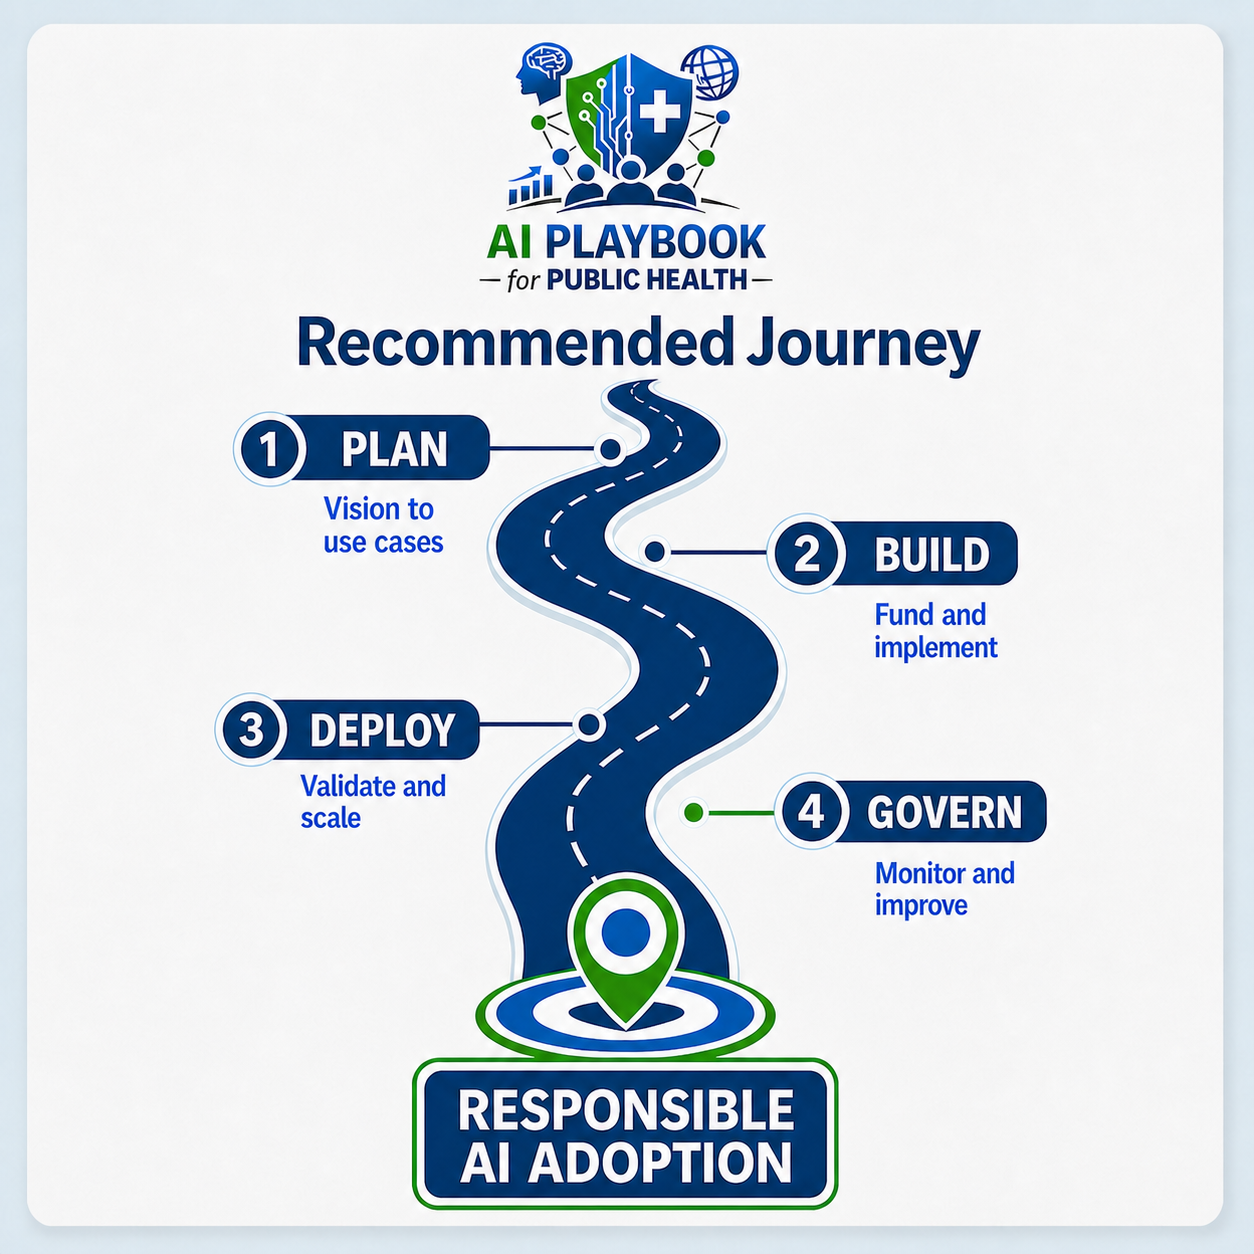
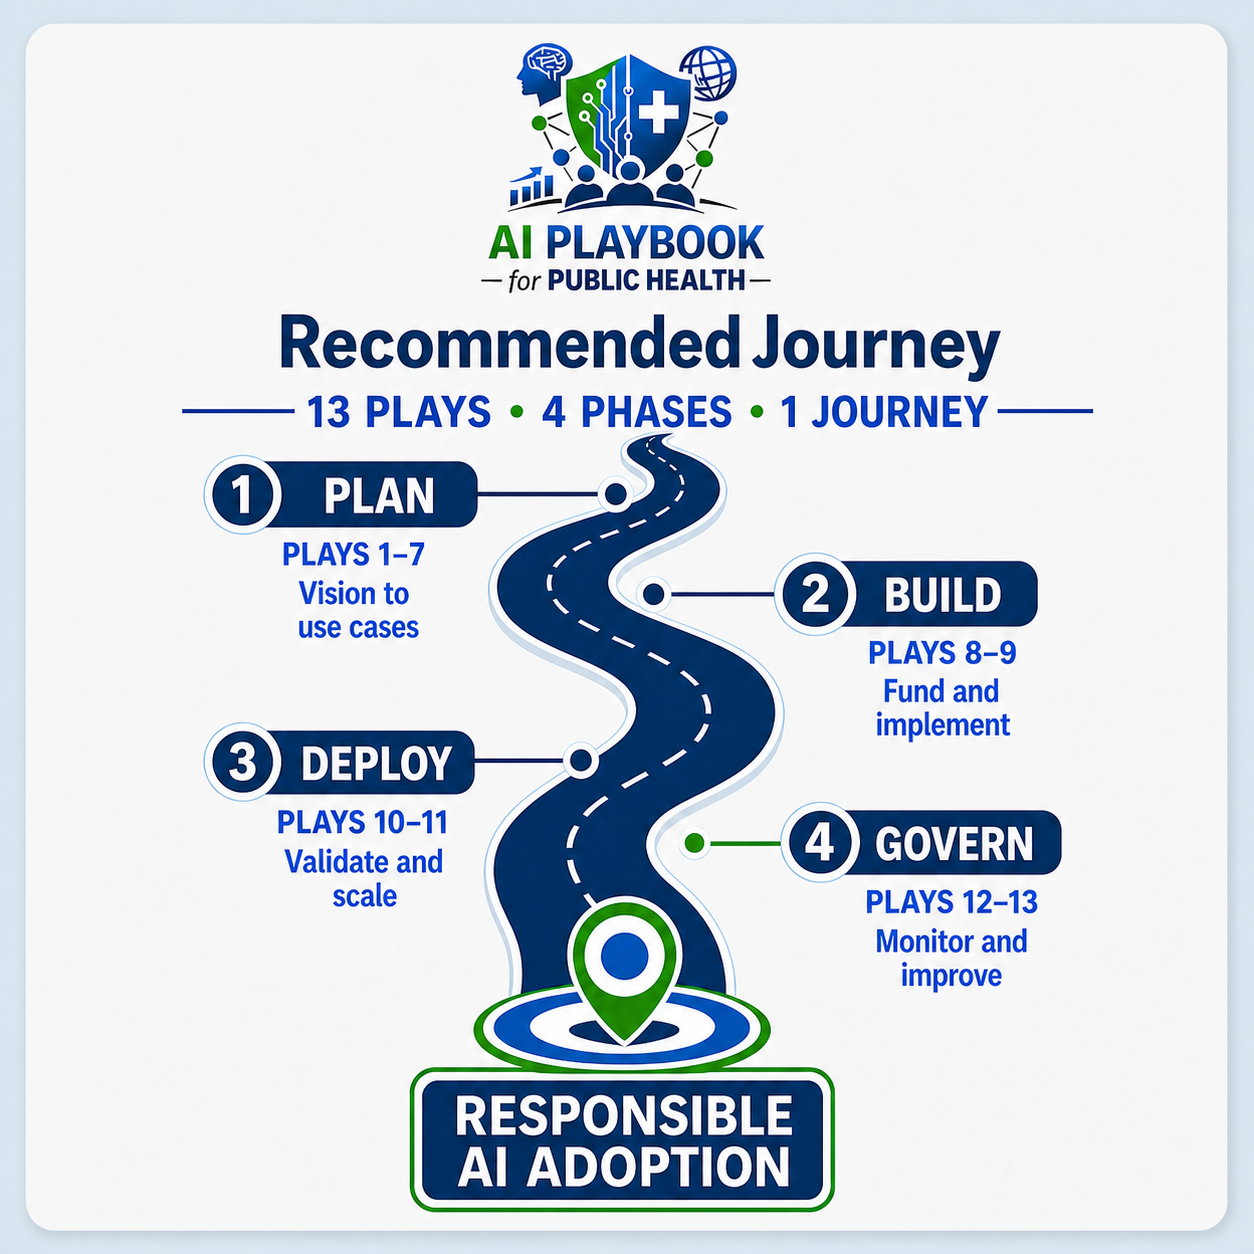
Show 13 plays across four journey phases

Changed region(s): [[0.0311, 0.0311, 0.9641, 0.9952], [0.9641, 0.0622, 0.9952, 0.9641]]

diff --git a/mvp/index.html b/mvp/index.html
@@ -1,6 +1,6 @@
 <!doctype html><html lang="en"><head><meta charset="utf-8"><meta name="viewport" content="width=device-width,initial-scale=1"><meta name="description" content="A public MVP for responsible AI strategy and implementation in public health departments."><title>AI Playbook for Public Health Departments</title><link rel="stylesheet" href="styles.css"><link rel="stylesheet" href="page.css"><link rel="stylesheet" href="evidence.css"><link rel="stylesheet" href="extras.css"><link rel="stylesheet" href="canonical-visuals.css"></head><body>
 <a class="skip" href="#main">Skip to content</a><header><a class="brand" href="#top"><img src="../assets/ai-playbook-logo-public-health.png" alt=""><span><strong>Public Health AI Strategy &amp; Implementation Playbook</strong><small>for Public Health Departments</small></span></a><button class="menu" aria-controls="primary-nav" aria-expanded="false">Menu</button><nav id="primary-nav" aria-label="Primary navigation"><a href="#plays">The 13 Plays</a><a href="learning.html">Core Learning</a><a href="training-paths.html">Training Paths</a><a href="resources.html">Evidence &amp; Resources</a><a href="reviewer.html">Become a Reviewer</a><a href="feedback.html">Feedback</a><a href="about.html">About this MVP</a><a class="outline" href="https://phisolutions.us" target="_blank" rel="noopener">Consulting</a></nav></header>
-<main id="main"><section class="hero" id="top"><div><p class="eyebrow">Responsible AI adoption for public health</p><h1>Move from AI interest to responsible action.</h1><p class="lede">Thirteen practical plays help public health departments align leadership, prepare their workforce, establish governance, select valuable use cases, and implement AI with public trust at the center.</p><div class="actions"><a class="button primary" href="#plays">Explore the 13 Plays</a><a class="button secondary" href="#updates">Get release updates</a></div><p class="note"><b>Public MVP:</b> all 13 plays and one bounded Starter Tool per play. The complete organizational toolkit and protected methods are not included.</p><p class="release-status" id="release-status">Public MVP</p></div><figure class="journey-graphic-card"><img src="../assets/recommended-journey-final.png" alt="Recommended Journey: Plan—vision to use cases; Build—fund and implement; Deploy—validate and scale; Govern—monitor and improve; destination—Responsible AI Adoption."></figure></section>
+<main id="main"><section class="hero" id="top"><div><p class="eyebrow">Responsible AI adoption for public health</p><h1>Move from AI interest to responsible action.</h1><p class="lede">Thirteen practical plays help public health departments align leadership, prepare their workforce, establish governance, select valuable use cases, and implement AI with public trust at the center.</p><div class="actions"><a class="button primary" href="#plays">Explore the 13 Plays</a><a class="button secondary" href="#updates">Get release updates</a></div><p class="note"><b>Public MVP:</b> all 13 plays and one bounded Starter Tool per play. The complete organizational toolkit and protected methods are not included.</p><p class="release-status" id="release-status">Public MVP</p></div><figure class="journey-graphic-card"><img src="../assets/recommended-journey-final.png" alt="Recommended Journey: 13 plays across four phases. Plan includes Plays 1–7; Build includes Plays 8–9; Deploy includes Plays 10–11; Govern includes Plays 12–13; destination—Responsible AI Adoption."></figure></section>
 <section class="promise section"><p class="eyebrow">Built for public health reality</p><h2>A complete pathway. A focused first release.</h2><p>The public launch introduces the full playbook journey without releasing the complete professional library. Each play includes clear guidance and one useful tool to help your department take its next responsible step.</p><div class="stats"><article><b>13</b><span>plays released together</span></article><article><b>13</b><span>free Starter Tools</span></article><article><b>1</b><span>connected implementation pathway</span></article></div></section>
 <section class="section" id="plays"><div class="heading"><div><p class="eyebrow">The framework</p><h2>Thirteen plays from vision to continuous improvement</h2></div><p>Start at the beginning or enter where your department has the greatest need. Every play identifies a practical outcome and the people who should be involved.</p></div><div class="tabs"><button class="active" data-phase="all">All plays</button><button data-phase="plan">Plan</button><button data-phase="build">Build</button><button data-phase="deploy">Deploy</button><button data-phase="govern">Govern</button></div><div class="plays" id="plays-grid"></div></section>
 <section class="tools section" id="tools"><div><p class="eyebrow">Free at launch</p><h2>One practical Starter Tool for every play</h2><p>Use the tools individually or in sequence. Subscribe to hear when the completed expanded tools, examples, training, and enhanced resources are released.</p></div><aside><b>Included in the Starter Collection</b><ul><li>Leadership and readiness tools</li><li>Governance and stakeholder tools</li><li>Workforce and implementation tools</li><li>Deployment and improvement tools</li></ul><a href="#updates">Be notified when the collection is released →</a></aside></section>

diff --git a/app.js b/app.js
@@ -4111,7 +4111,7 @@ function renderHome() {
           </div>
         </div>
         <figure class="journey-graphic-card">
-          <img src="assets/recommended-journey-final.png" alt="Recommended Journey: Plan—vision to use cases; Build—fund and implement; Deploy—validate and scale; Govern—monitor and improve; destination—Responsible AI Adoption." />
+          <img src="assets/recommended-journey-final.png" alt="Recommended Journey: 13 plays across four phases. Plan includes Plays 1–7; Build includes Plays 8–9; Deploy includes Plays 10–11; Govern includes Plays 12–13; destination—Responsible AI Adoption." />
         </figure>
       </div>
     </section>
